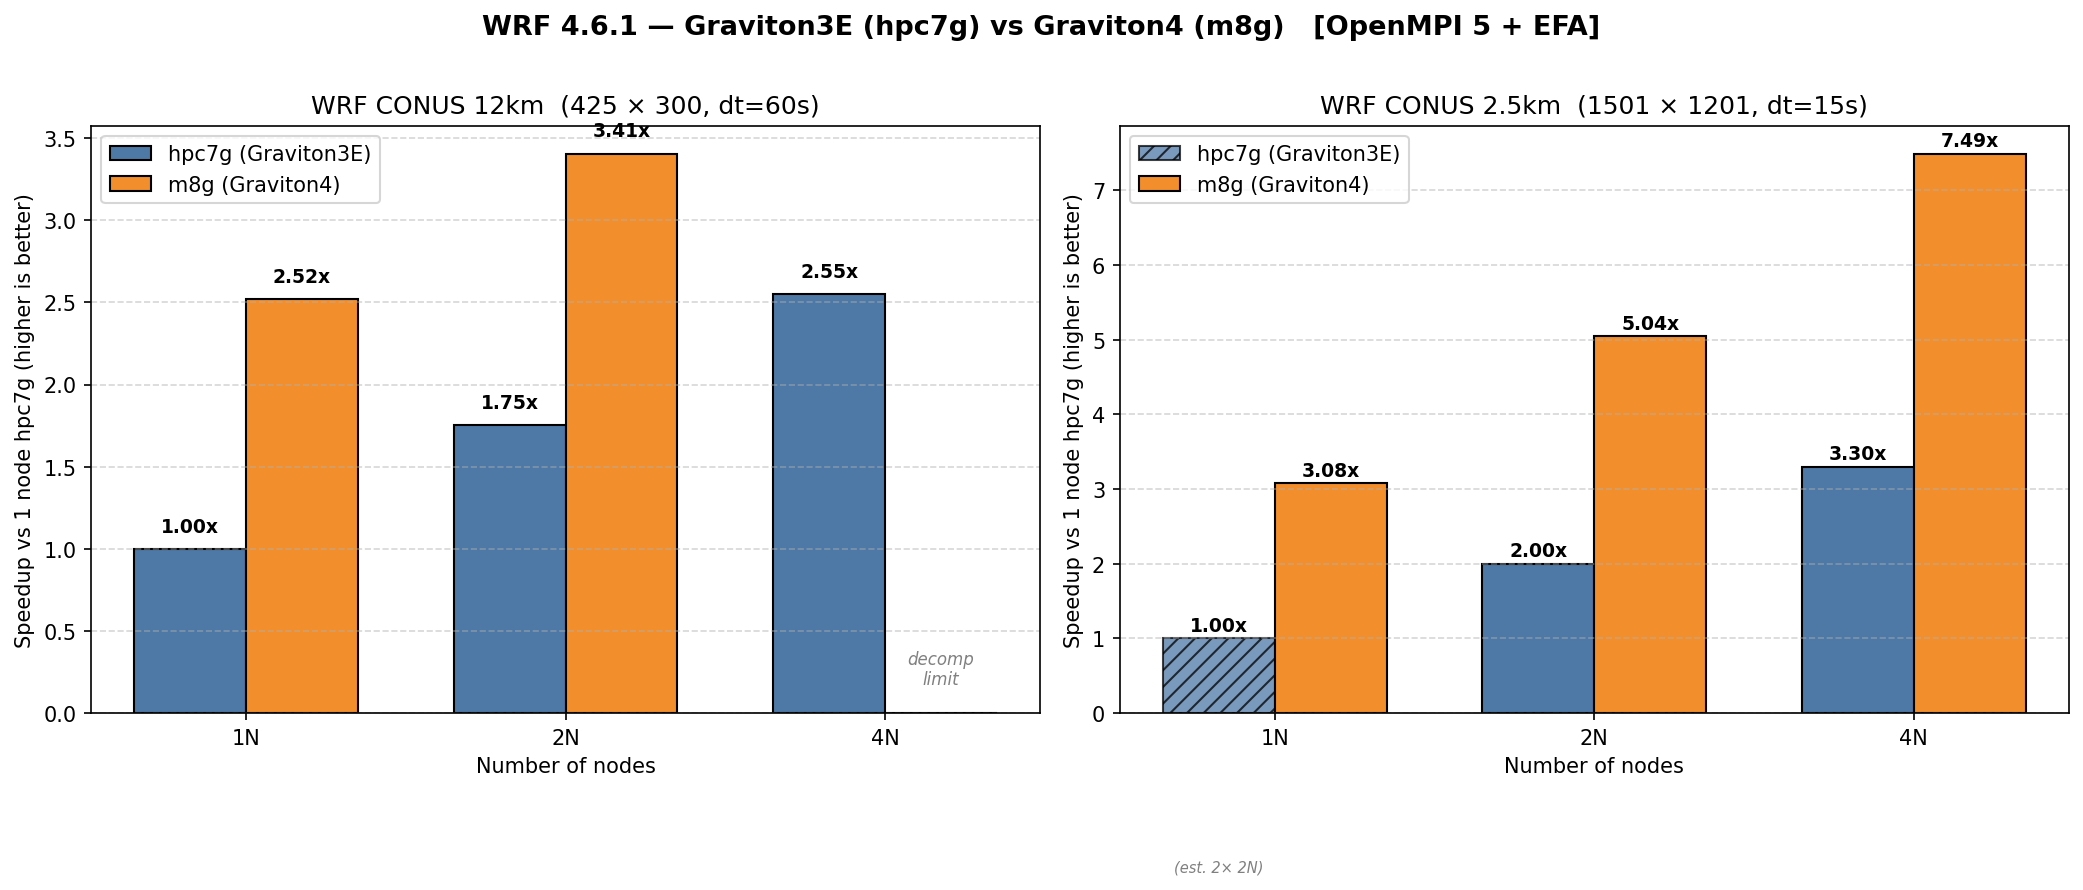
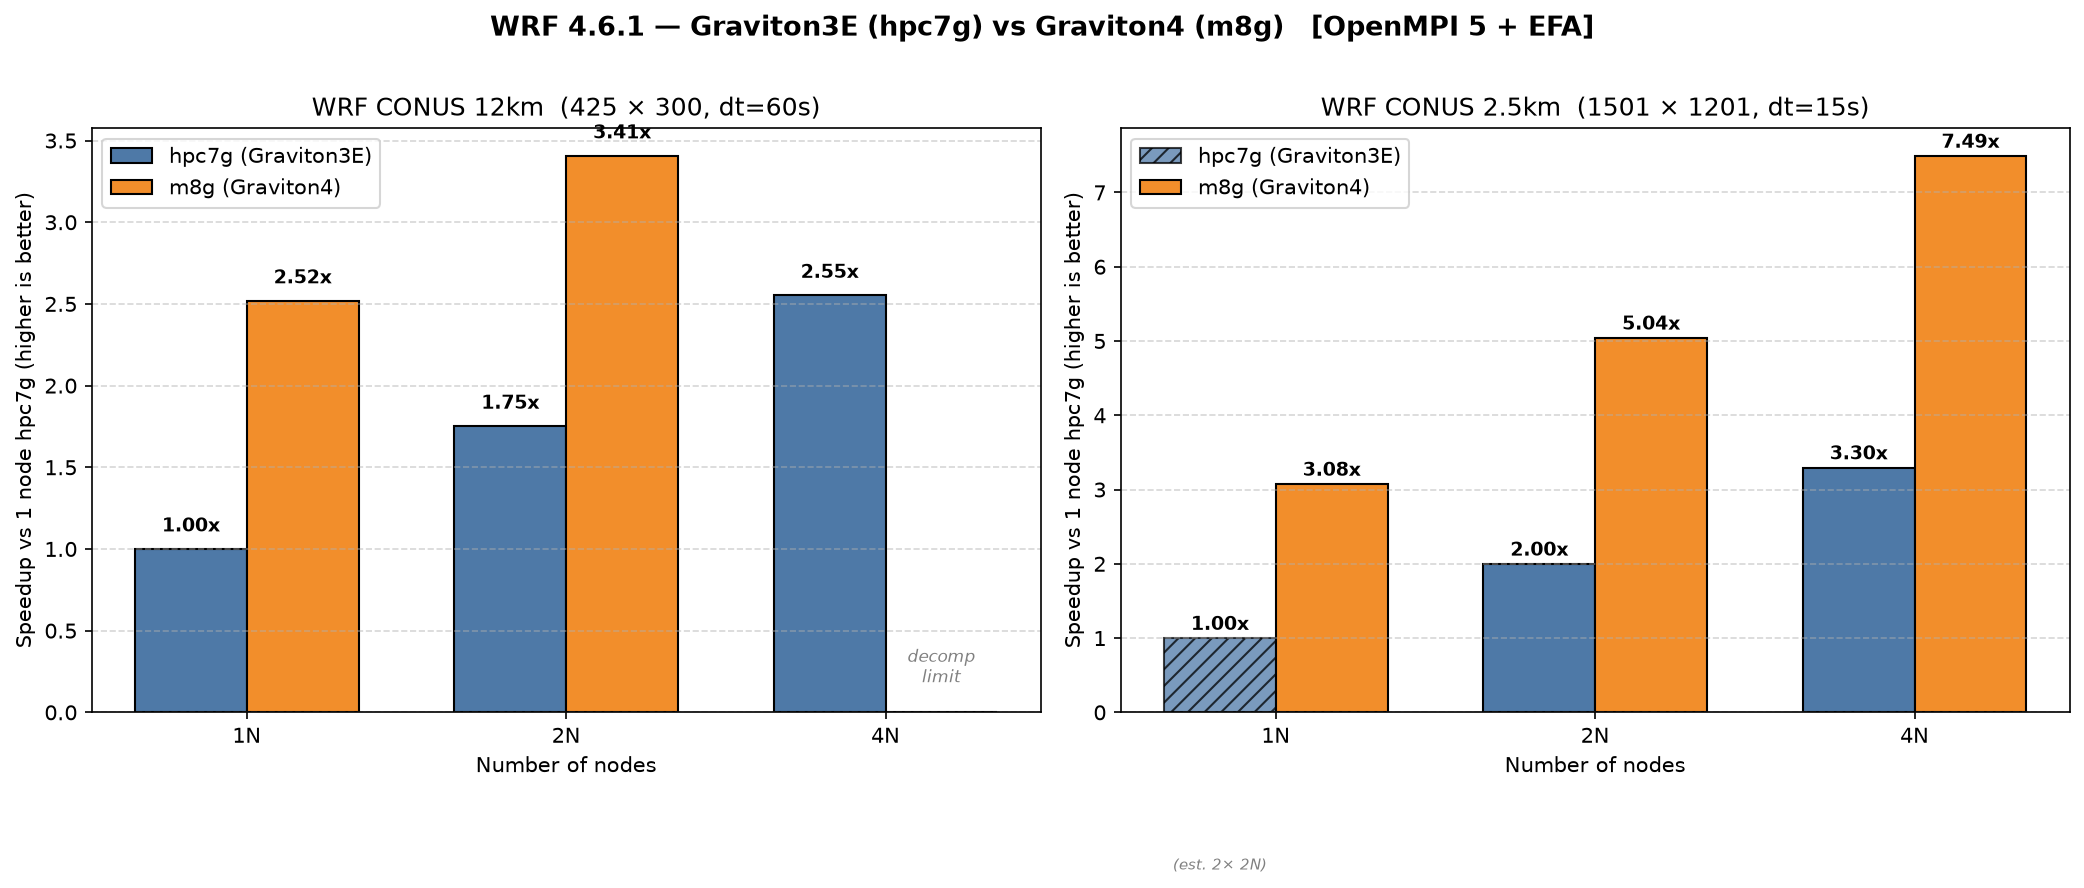
docs(WRF): the Arm chart's generator embeds relative values only
generate_arm_chart.py held the total wall times of the Graviton3E and
Graviton4 runs and divided them into the speedups it plots. It now holds
the speedups themselves, against 1 node hpc7g on each mesh (= 1.00), to
four decimals: the values the README's two Graviton tables give to two.
The note on the estimated 1-node hpc7g CONUS 2.5km point says only that it
is estimated, as 2 x the 2-node time. The generator selects matplotlib's
Agg backend, as the other two WRF chart generators do.

The PNG is rewritten with matplotlib 3.11.2 (numpy 2.4.6), which the
generator reproduces byte for byte; its bars, labels and printed summary
are those of the previous chart.

diff --git a/Doc/img/WRF/generate_arm_chart.py b/Doc/img/WRF/generate_arm_chart.py
@@ -2,48 +2,39 @@
 """
 Generate the WRF Arm performance chart: Graviton3E (hpc7g) vs Graviton4 (m8g)
 for CONUS 12km and CONUS 2.5km benchmarks. Speedup normalised to 1 node hpc7g
-on each mesh. The Graviton3E 1N 2.5km baseline is estimated (OOM risk / not
-run) as 2 x the 2N time — matches the OpenFOAM Arm chart convention.
+on each mesh. The Graviton3E 1N 2.5km baseline is not measured: it is
+estimated as 2 x the 2N time, the convention of the OpenFOAM Arm chart.
 
 Usage:
     python3 generate_arm_chart.py
 """
 
+import matplotlib
+matplotlib.use("Agg")  # write the PNG without a display
 import matplotlib.pyplot as plt
 import numpy as np
 
 # ---------------------------------------------------------------------------
-# Measured WRF CONUS benchmark data (total wall time, seconds)
+# Measured WRF CONUS benchmark data: speedup on the total wall time (output
+# included), against 1 node hpc7g on each mesh (= 1.00, higher is faster).
+# Only relative values are embedded here.
 # ---------------------------------------------------------------------------
 # All runs: OpenMPI 5 over EFA, GCC 14 build via Spack, WRF 4.6.1 dm+sm,
 # OMP_NUM_THREADS=1 (pure MPI), 64 cores/node on hpc7g, 192 cores/node on m8g.
 # Graviton4 4N 12km is not plotted — the 425x300 grid cannot decompose cleanly
 # at >= 512 ranks (minimum 10 cells/rank/direction constraint).
 
-nodes_12km_g3 = np.array([1, 2, 4])
-time_12km_g3  = np.array([546.05, 311.83, 213.95])
-nodes_12km_g4 = np.array([1, 2])
-time_12km_g4  = np.array([216.80, 160.33])
+nodes_12km_g3   = np.array([1, 2, 4])
+speedup_12km_g3 = np.array([1.0000, 1.7511, 2.5522])
+nodes_12km_g4   = np.array([1, 2])
+speedup_12km_g4 = np.array([2.5187, 3.4058])
 
-nodes_2p5km_g3 = np.array([2, 4])
-time_2p5km_g3  = np.array([6152.40, 3732.59])
-nodes_2p5km_g4 = np.array([1, 2, 4])
-time_2p5km_g4  = np.array([4001.33, 2439.88, 1642.47])
-
-# 1N hpc7g 2.5km is OOM-risky and was not run — estimate as 2 x 2N time
-# (same convention used in the OpenFOAM Arm chart when a 1N run was impossible).
-t_g3_1n_2p5km_est = 2.0 * time_2p5km_g3[0]
-
-# ---------------------------------------------------------------------------
-# Speedup normalised to 1 node Graviton3E (hpc7g) for each mesh
-# ---------------------------------------------------------------------------
-baseline_12km  = time_12km_g3[0]                 # real 1N hpc7g run
-baseline_2p5km = t_g3_1n_2p5km_est               # estimated
-
-speedup_12km_g3  = baseline_12km  / time_12km_g3
-speedup_12km_g4  = baseline_12km  / time_12km_g4
-speedup_2p5km_g3_real = baseline_2p5km / time_2p5km_g3
-speedup_2p5km_g4 = baseline_2p5km / time_2p5km_g4
+# The 2.5km reference, 1N hpc7g, is the estimate (2 x the 2N time), so the 2N
+# hpc7g point is 2.00 by construction.
+nodes_2p5km_g3        = np.array([2, 4])
+speedup_2p5km_g3_real = np.array([2.0000, 3.2966])
+nodes_2p5km_g4        = np.array([1, 2, 4])
+speedup_2p5km_g4      = np.array([3.0752, 5.0432, 7.4916])
 
 # Prepend the estimated G3 1N 2.5km baseline (speedup=1.0) for plotting
 nodes_2p5km_g3_all   = np.array([1, 2, 4])
